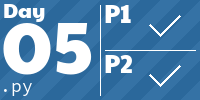
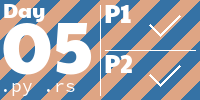
Day 05 in rs

diff --git a/solutions/day05/day05.rs b/solutions/day05/day05.rs
@@ -1,0 +1,80 @@
+use std::io::{self, Read};
+
+struct Mapping {
+    dest: u32,
+    src: u32,
+    length: u32,
+}
+
+fn part1(seeds: &Vec<u32>, maps: &Vec<Vec<Mapping>>) -> u32 {
+    seeds
+        .iter()
+        .map(|&s| {
+            maps.iter().fold(s, |s, block| {
+                match block.iter().find(|&m| m.src <= s && s < m.src + m.length) {
+                    Some(m) => s + m.dest - m.src,
+                    None => s,
+                }
+            })
+        })
+        .min()
+        .unwrap()
+}
+
+fn part2(seeds2: &Vec<&[u32]>, maps: &Vec<Vec<Mapping>>) -> u32 {
+    for i in 0.. {
+        // Invert mapping
+        let seed: u32 = maps.iter().rev().fold(i, |x, block| {
+            match block.iter().find(|&m| m.dest <= x && x < m.dest + m.length) {
+                Some(m) => x + m.src - m.dest,
+                None => x,
+            }
+        });
+
+        if seeds2.iter().any(|&s| s[0] <= seed && seed < s[0] + s[1]) {
+            return i; // seed is in a valid input range
+        }
+    }
+
+    panic!()
+}
+
+fn main() {
+    let mut inp = String::new();
+    _ = io::stdin().read_to_string(&mut inp);
+
+    let mut pcs = inp.split("\n\n");
+
+    let seeds: Vec<u32> = pcs
+        .next()
+        .unwrap()
+        .split('_')
+        .next_back()
+        .unwrap()
+        .split(' ')
+        .filter_map(|n| n.parse().ok())
+        .collect(); // one line
+
+    let maps: Vec<Vec<Mapping>> = pcs
+        .map(|p| {
+            p.split(':')
+                .next_back()
+                .unwrap()
+                .trim()
+                .split("\n")
+                .map(|line| {
+                    let nums: Vec<u32> = line.split(" ").filter_map(|n| n.parse().ok()).collect(); // one line
+                    Mapping {
+                        dest: nums[0],
+                        src: nums[1],
+                        length: nums[2],
+                    }
+                })
+                .collect() // all lines
+        })
+        .collect(); // all blocks
+
+    let seeds2 = seeds.chunks(2).collect();
+
+    println!("{} {}", part1(&seeds, &maps), part2(&seeds2, &maps));
+}
